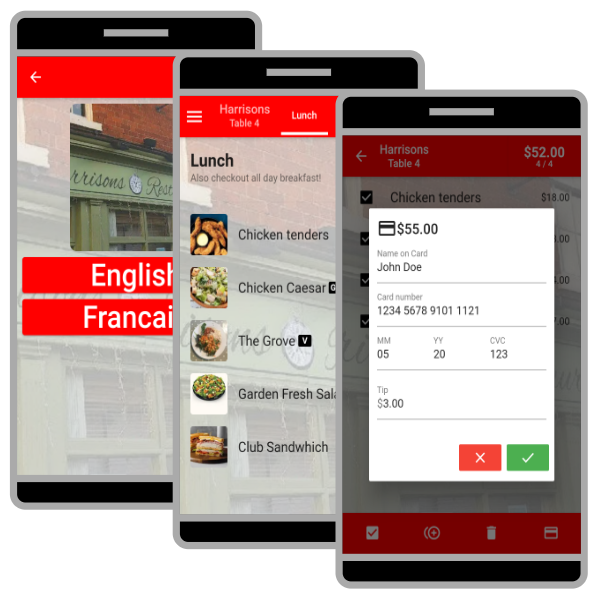
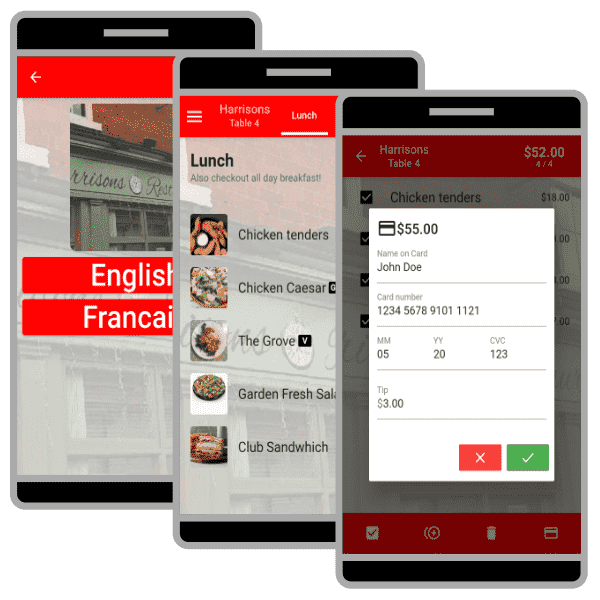
Quant (shrink) pngs, add Tevalis, lose Xero

diff --git a/index.html b/index.html
@@ -6,7 +6,7 @@
 
     <!-- Mobile Specific Meta -->
     <meta name="viewport" content="width=device-width, initial-scale=1">
-    <meta name="generator" content="Hugo 0.61.0" />
+    <meta name="generator" content="Hugo 0.62.2" />
 
     <title>Extraorder | 21st Century Dining</title>
 
@@ -176,7 +176,7 @@
 
             <div class="col-lg-4 text-center wow fadeInUp" data-wow-duration="500ms">
                 <div class="block">
-                    <img src="/images/process/5b.png"/>
+                    <img src="/images/process/3.png"/>
                     <h3>3) Fulfill &amp; Charge Card</h3>
                     <p>Kitchen and Bar receive their order portions and tick them off as they are completed. Once the order is finished or left for a set period, the card is charged for the completed items.</p>
                 </div>
@@ -315,8 +315,8 @@
 
             <div class="col-lg-4 text-center wow fadeInUp" data-wow-duration="500ms">
                 <div class="block">
-                    <a href="https://www.xero.com/">
-                        <img src="/images/technologies/Xero_software_logo.svg"/>
+                    <a href="https://website.tevalis.com/">
+                        <img src="/images/technologies/tevalis.png"/>
                     </a>
                 </div>
             </div>

diff --git a/app-privacy/index.html b/app-privacy/index.html
@@ -6,7 +6,7 @@
 
     <!-- Mobile Specific Meta -->
     <meta name="viewport" content="width=device-width, initial-scale=1">
-    <meta name="generator" content="Hugo 0.61.0" />
+    <meta name="generator" content="Hugo 0.62.2" />
 
     <title>Extraorder Mobile App Privacy Policy | Extraorder</title>
 

diff --git a/author/index.html b/author/index.html
@@ -6,7 +6,7 @@
 
     <!-- Mobile Specific Meta -->
     <meta name="viewport" content="width=device-width, initial-scale=1">
-    <meta name="generator" content="Hugo 0.61.0" />
+    <meta name="generator" content="Hugo 0.62.2" />
 
     <title>Authors of posts on the blog „Extraorder"</title>
 

diff --git a/blog/20191202-restaurant-and-cafe/index.html b/blog/20191202-restaurant-and-cafe/index.html
@@ -6,7 +6,7 @@
 
     <!-- Mobile Specific Meta -->
     <meta name="viewport" content="width=device-width, initial-scale=1">
-    <meta name="generator" content="Hugo 0.61.0" />
+    <meta name="generator" content="Hugo 0.62.2" />
 
     <title>The Next-Generation Customers | Blogs</title>
 

diff --git a/blog/20191210-restaurant-and-cafe/index.html b/blog/20191210-restaurant-and-cafe/index.html
@@ -6,7 +6,7 @@
 
     <!-- Mobile Specific Meta -->
     <meta name="viewport" content="width=device-width, initial-scale=1">
-    <meta name="generator" content="Hugo 0.61.0" />
+    <meta name="generator" content="Hugo 0.62.2" />
 
     <title>20 Minutes with Greg Harrison | Blogs</title>
 

diff --git a/blog/20191023-restaurant-and-cafe/index.html b/blog/20191023-restaurant-and-cafe/index.html
@@ -6,7 +6,7 @@
 
     <!-- Mobile Specific Meta -->
     <meta name="viewport" content="width=device-width, initial-scale=1">
-    <meta name="generator" content="Hugo 0.61.0" />
+    <meta name="generator" content="Hugo 0.62.2" />
 
     <title>Levelling up the experience | Blogs</title>
 

diff --git a/terms-and-conditions/index.html b/terms-and-conditions/index.html
@@ -6,7 +6,7 @@
 
     <!-- Mobile Specific Meta -->
     <meta name="viewport" content="width=device-width, initial-scale=1">
-    <meta name="generator" content="Hugo 0.61.0" />
+    <meta name="generator" content="Hugo 0.62.2" />
 
     <title>Terms and Conditions | Extraorder</title>
 

diff --git a/privacy-policy/index.html b/privacy-policy/index.html
@@ -6,7 +6,7 @@
 
     <!-- Mobile Specific Meta -->
     <meta name="viewport" content="width=device-width, initial-scale=1">
-    <meta name="generator" content="Hugo 0.61.0" />
+    <meta name="generator" content="Hugo 0.62.2" />
 
     <title>Privacy Policy | Extraorder</title>
 

diff --git a/blog/index.html b/blog/index.html
@@ -6,7 +6,7 @@
 
     <!-- Mobile Specific Meta -->
     <meta name="viewport" content="width=device-width, initial-scale=1">
-    <meta name="generator" content="Hugo 0.61.0" />
+    <meta name="generator" content="Hugo 0.62.2" />
 
     <title>Blogs | Extraorder</title>
 

diff --git a/categories/index.html b/categories/index.html
@@ -6,7 +6,7 @@
 
     <!-- Mobile Specific Meta -->
     <meta name="viewport" content="width=device-width, initial-scale=1">
-    <meta name="generator" content="Hugo 0.61.0" />
+    <meta name="generator" content="Hugo 0.62.2" />
 
     <title>Categories</title>
 

diff --git a/tags/index.html b/tags/index.html
@@ -6,7 +6,7 @@
 
     <!-- Mobile Specific Meta -->
     <meta name="viewport" content="width=device-width, initial-scale=1">
-    <meta name="generator" content="Hugo 0.61.0" />
+    <meta name="generator" content="Hugo 0.62.2" />
 
     <title>Tags</title>
 
